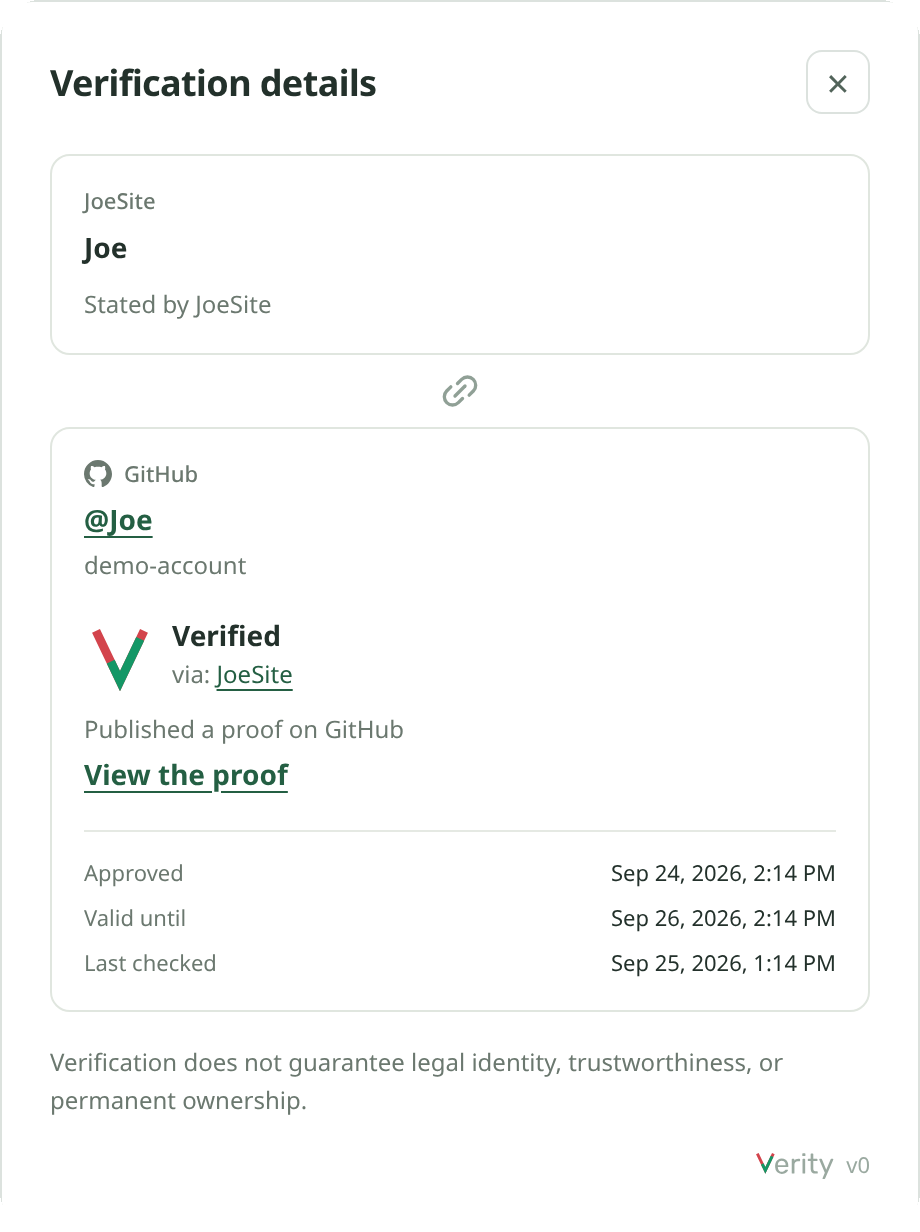
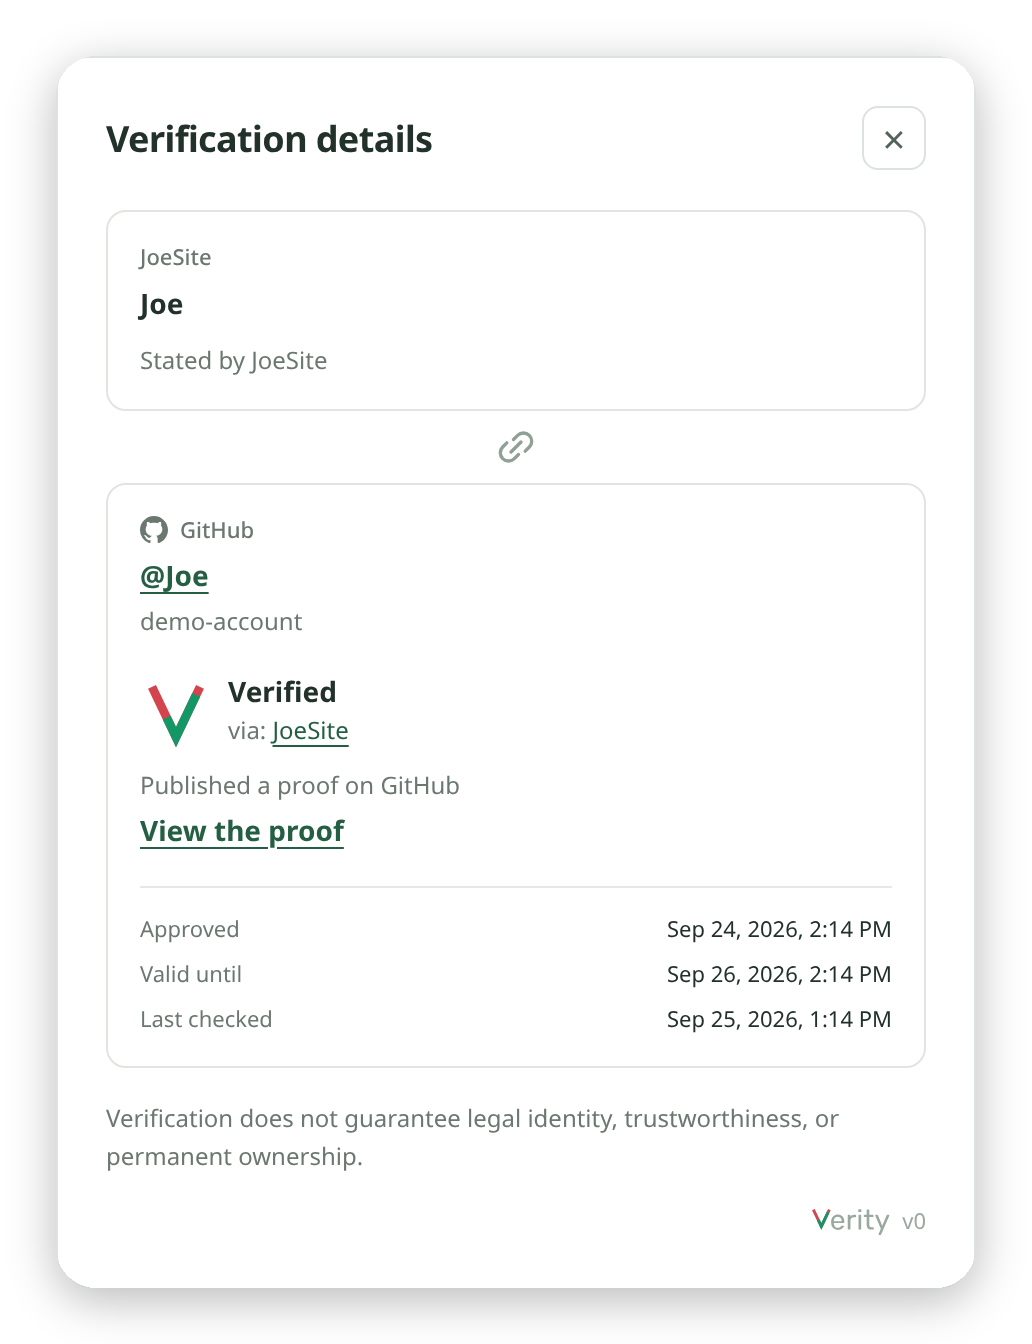
docs: show the dialog screenshot at a readable size
- move the dialog image into the Show the badge section
- add a drop shadow to docs/images/dialog.png
- describe the dialog's contents in its alt text

diff --git a/README.md b/README.md
@@ -16,8 +16,7 @@
 </p>
 
 <p align="center">
-  <img src="docs/images/badge.png" alt="A profile card with a Verity badge showing a GitHub account" width="460" />
-  <img src="docs/images/dialog.png" alt="The verification details dialog the badge opens" width="232" />
+  <img src="docs/images/badge.png" alt="A profile card with a Verity badge showing a GitHub account" width="480" />
 </p>
 
 Verity is a self-hosted library for Node.js. A signed-in user of your site proves they control an external account, by signing in with GitHub, publishing a gist, linking back with `rel="me"`, or signing with an OpenPGP key. They approve the connection, and Verity publishes it as a record anyone can inspect, with a badge for their profile.
@@ -133,6 +132,12 @@ Then place the badge wherever the account appears:
 <script src="/assets/verity.js" defer></script>
 <verity-badge backend-url="/api/verity" connection-id="CONNECTION_ID"></verity-badge>
 ```
+
+Clicking the badge opens the verification details:
+
+<p align="center">
+  <img src="docs/images/dialog.png" alt="The verification details dialog: the local account, the linked GitHub account, its status, and when it was approved, expires and was last checked" width="448" />
+</p>
 
 The badge refreshes every 30 seconds, and only ever reads public evidence. The client can also start and end connections, and draw a badge into an element of your own:
 
